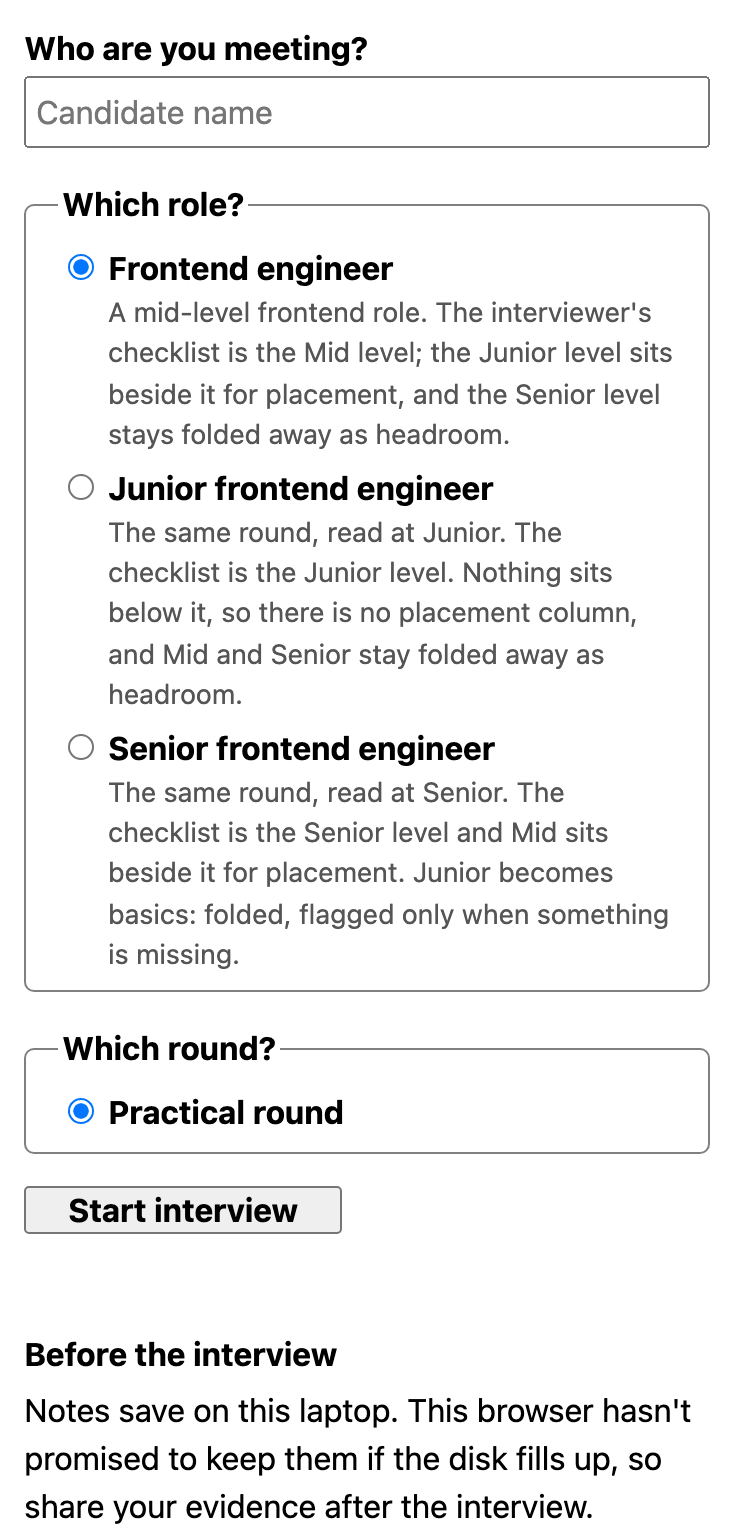
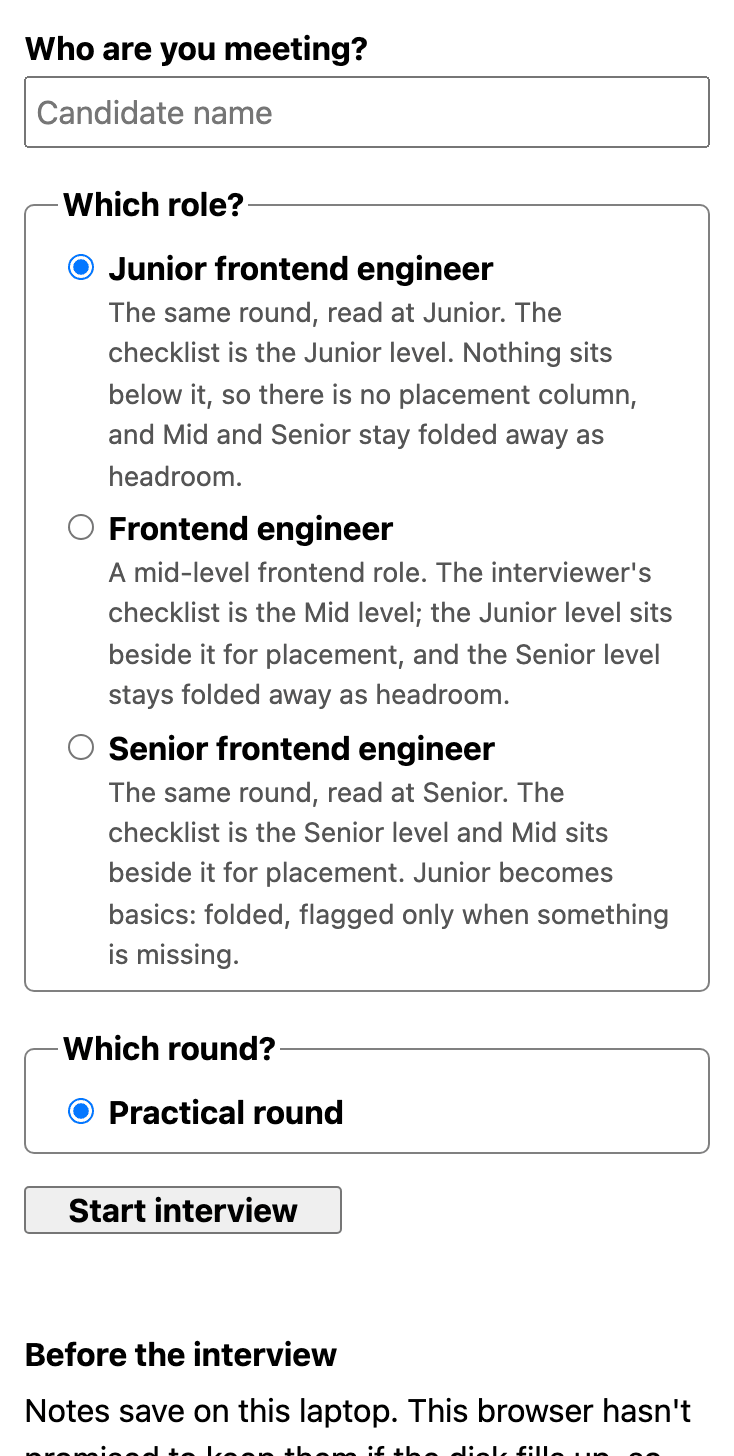
Recapture the start page with roles in ladder order, and start the other scenes as the Mid role their alt text describes

diff --git a/capture/scenes.js b/capture/scenes.js
@@ -5,7 +5,9 @@ const desktop = { width: 1280, height: 800 };
 // Phone width keeps a full-width block (the form, the picker) tight around its content.
 const phone = { width: 390, height: 844 };
 // Every scene but the start page begins an interview the way an interviewer does, then opens a page of it.
-const begin = [{ do: 'fill', target: '.start-candidate', value: 'Sam Rivera' }, { do: 'click', target: '.start-go' }, { do: 'wait', target: '.session-header' }];
+// The Mid role, whose Look for has a placement layer below it; the start page opens on the first role, Junior.
+const begin = [{ do: 'fill', target: '.start-candidate', value: 'Sam Rivera' }, { do: 'check', target: '.start-option input[value="frontend-engineer"]' },
+  { do: 'click', target: '.start-go' }, { do: 'wait', target: '.session-header' }];
 const at = (hash) => [...begin, { do: 'goto', value: hash }, { do: 'wait', target: `main[data-route="${hash}"]` }];
 
 export const scenes = [

diff --git a/test/help.test.js b/test/help.test.js
@@ -78,7 +78,7 @@ test("an FAQ entry's media renders from the shared folder, lazily, the marking c
 test('every screenshot and clip on Help carries its size, so a deep link lands on its entry', () => {
   document.body.innerHTML = helpPage();
   expect([...document.querySelectorAll('.media')].map((m) => [m.tagName, m.getAttribute('width'), m.getAttribute('height'), m.style.getPropertyValue('--media-ratio')]))
-    .toEqual([['IMG', '367', '768', String(734 / 1536)], ['VIDEO', '280', '436', String(560 / 872)], ['IMG', '317', '350', String(634 / 700)],
+    .toEqual([['IMG', '367', '728', String(734 / 1456)], ['VIDEO', '280', '436', String(560 / 872)], ['IMG', '317', '350', String(634 / 700)],
       ['IMG', '367', '339', String(734 / 678)], ['IMG', '367', '478', String(734 / 956)]]);
 });
 
